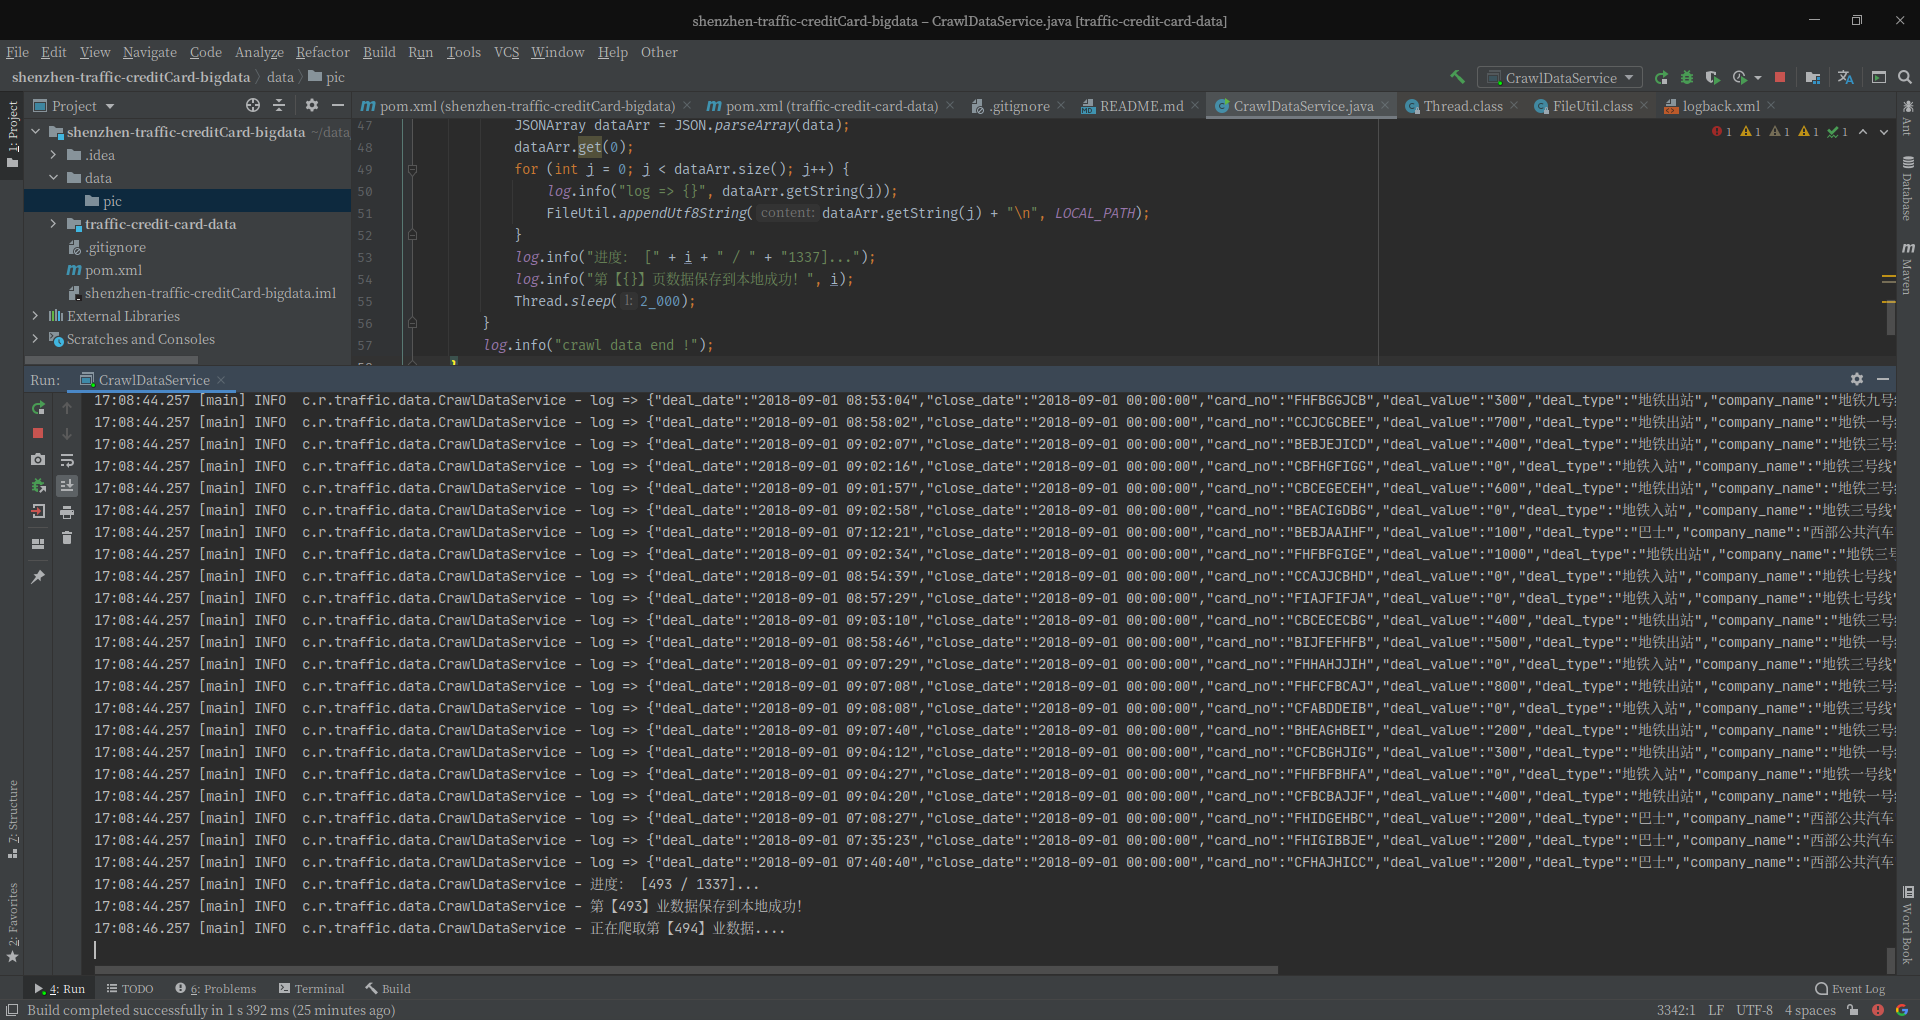
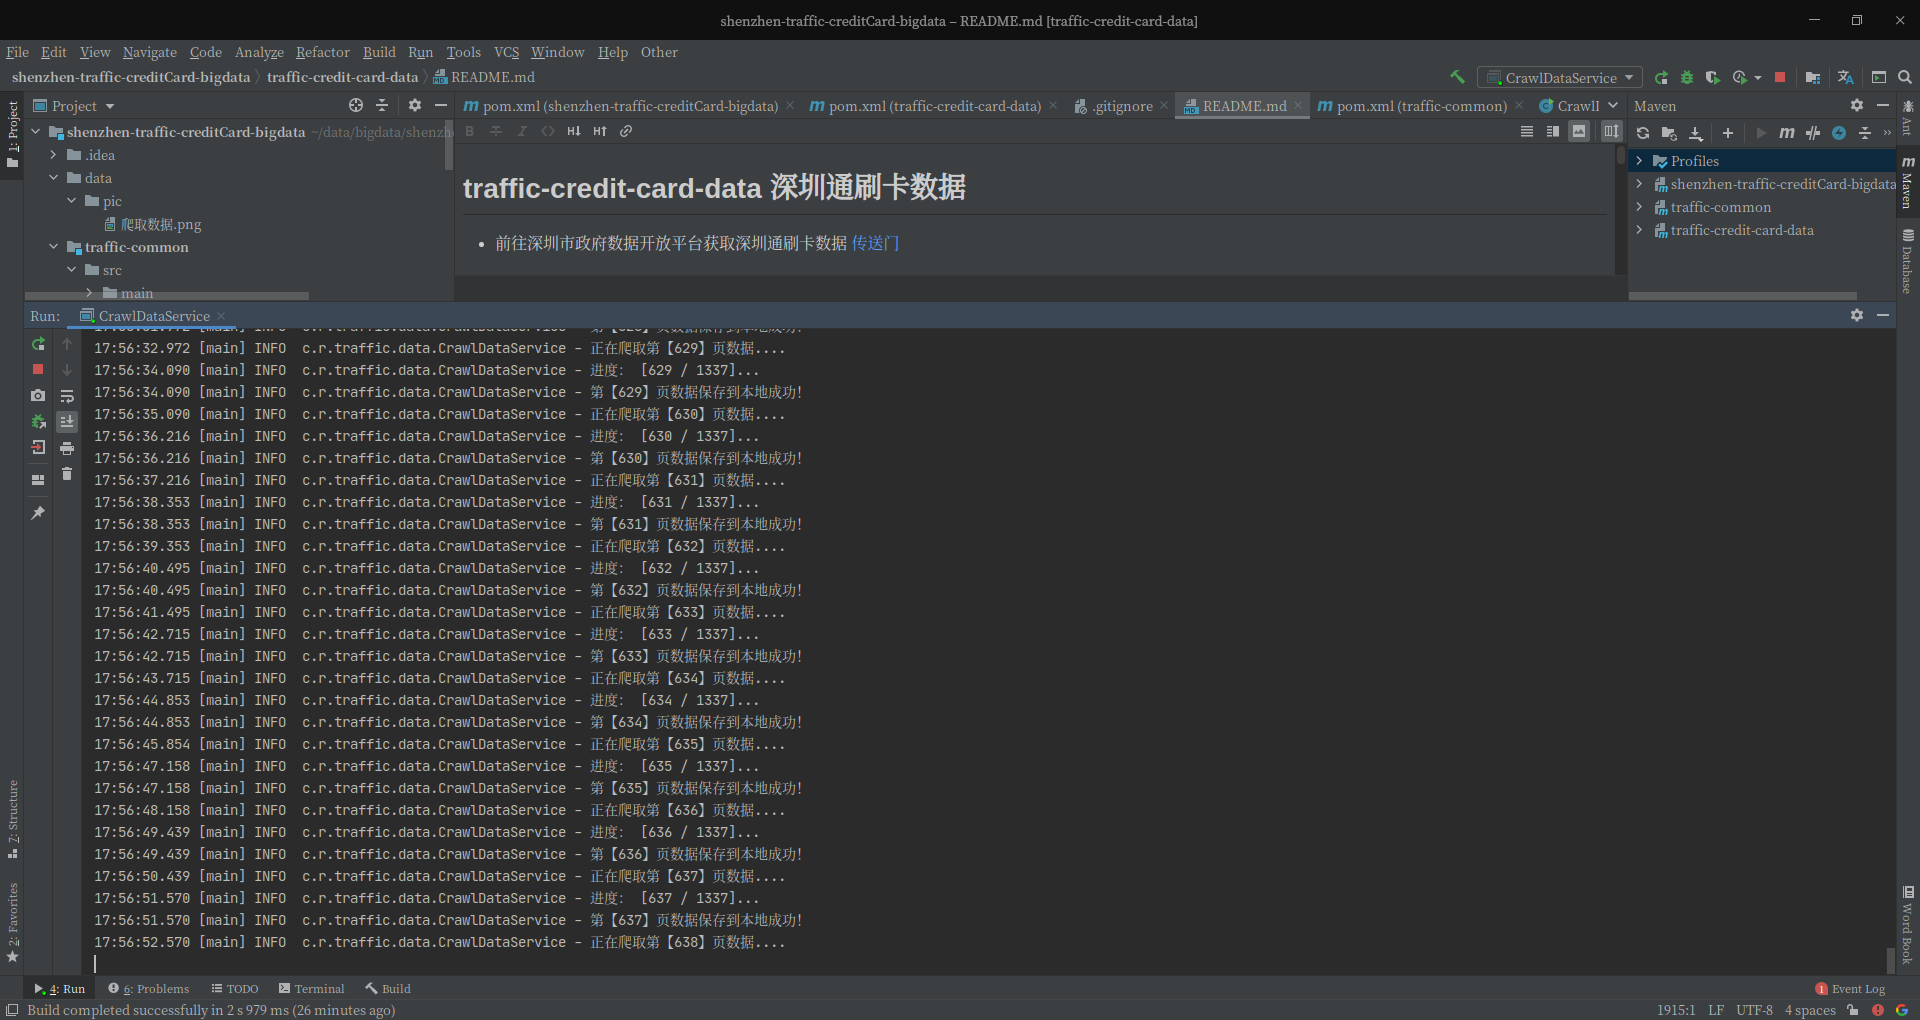
feat 爬取深圳通刷卡数据实现

Changed region(s): [[0.0, 0.0608, 1.0, 0.9725], [0.375, 0.0, 0.625, 0.0304], [0.5625, 0.1824, 0.5938, 0.2127]]

diff --git a/traffic-credit-card-data/src/main/java/com/rison/traffic/data/CrawlDataService.java b/traffic-credit-card-data/src/main/java/com/rison/traffic/data/CrawlDataService.java
@@ -47,12 +47,12 @@ public class CrawlDataService {
             JSONArray dataArr = JSON.parseArray(data);
             dataArr.get(0);
             for (int j = 0; j < dataArr.size(); j++) {
-                log.info("log => {}", dataArr.getString(j));
+//                log.info("log => {}", dataArr.getString(j));
                 FileUtil.appendUtf8String(dataArr.getString(j) + "\n", LOCAL_PATH);
             }
             log.info("进度： [" + i + " / " + "1337]...");
             log.info("第【{}】页数据保存到本地成功！", i);
-            Thread.sleep(2_000);
+            Thread.sleep(1_000);
         }
         log.info("crawl data end !");
     }
